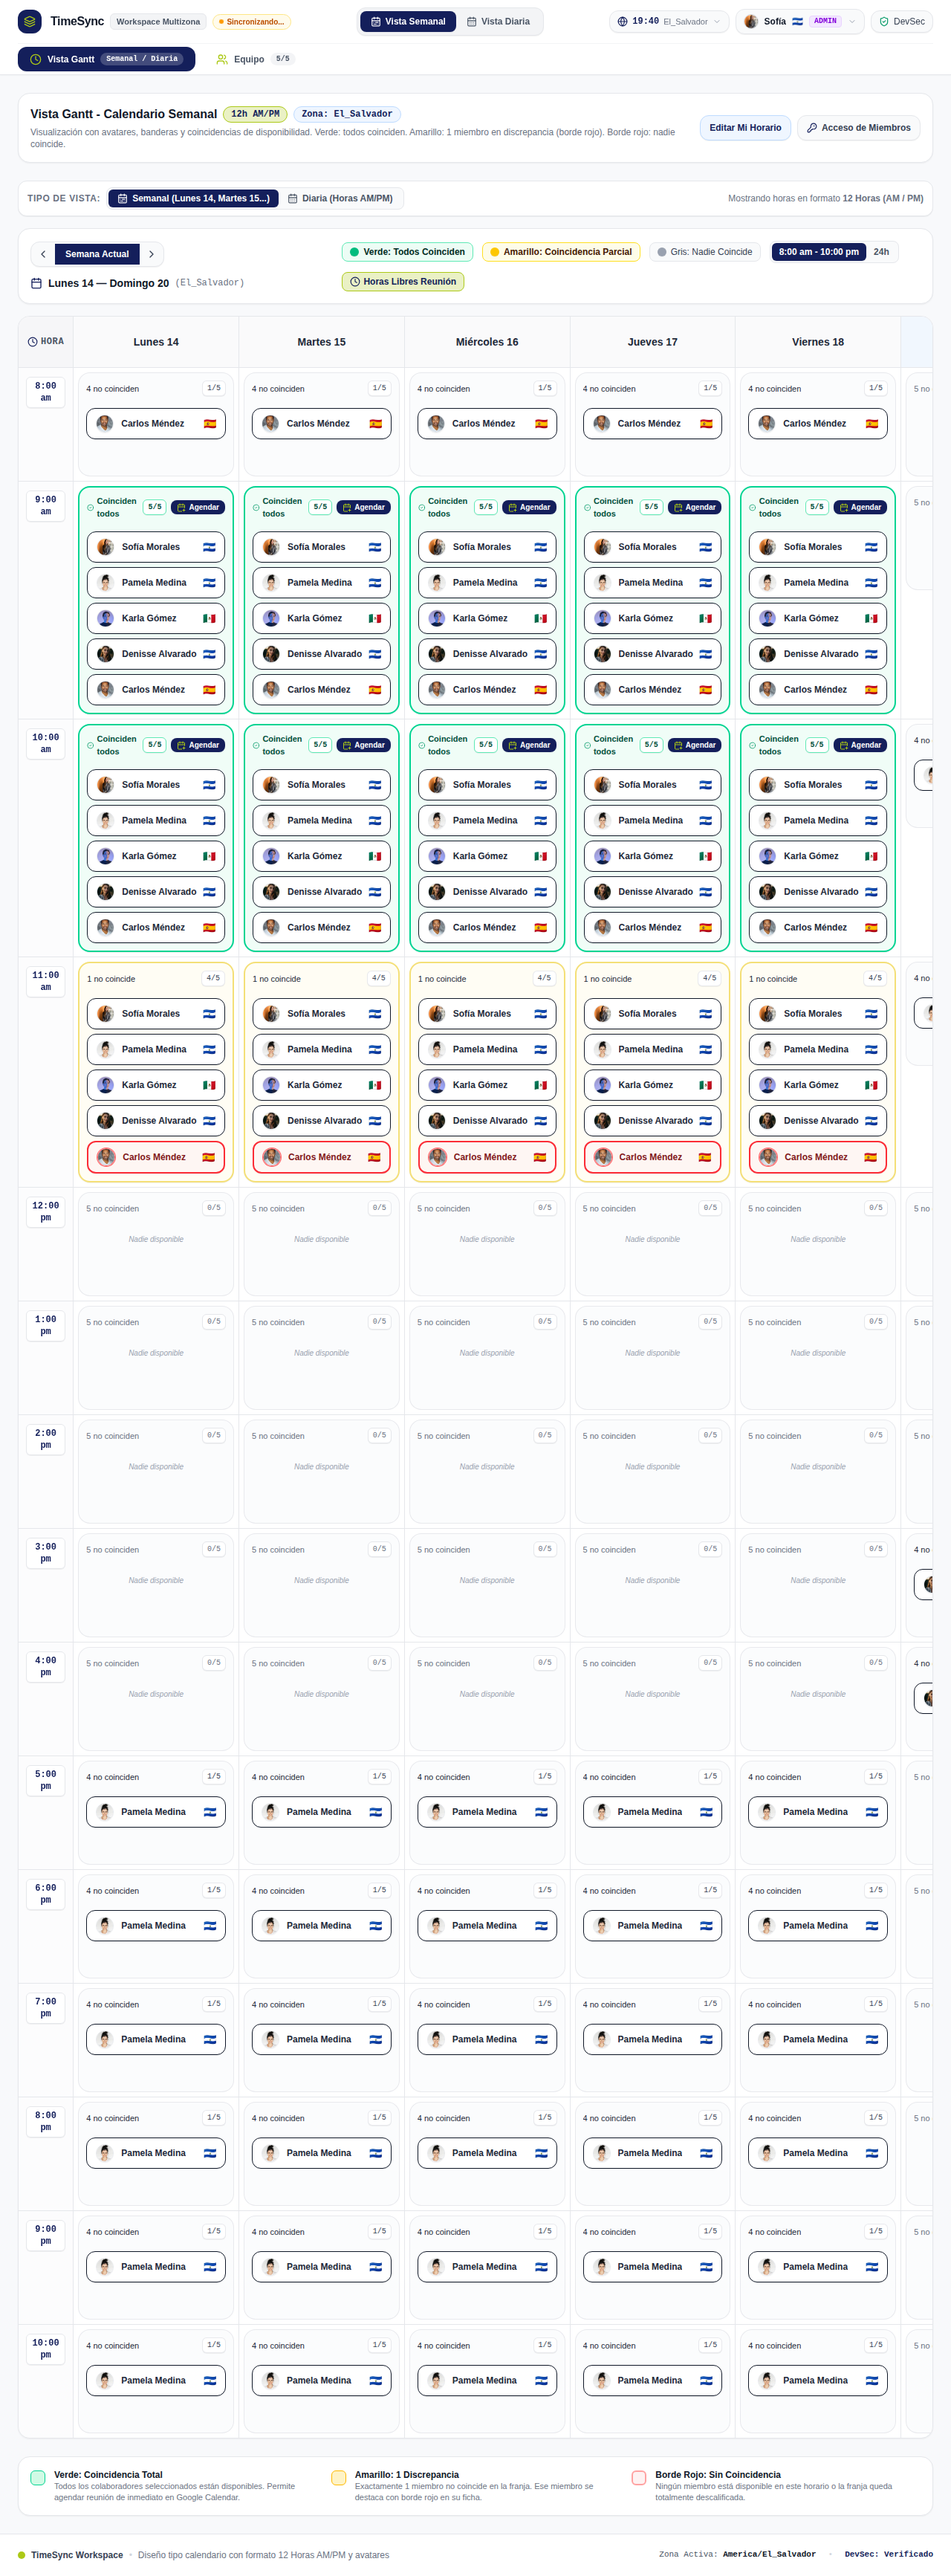
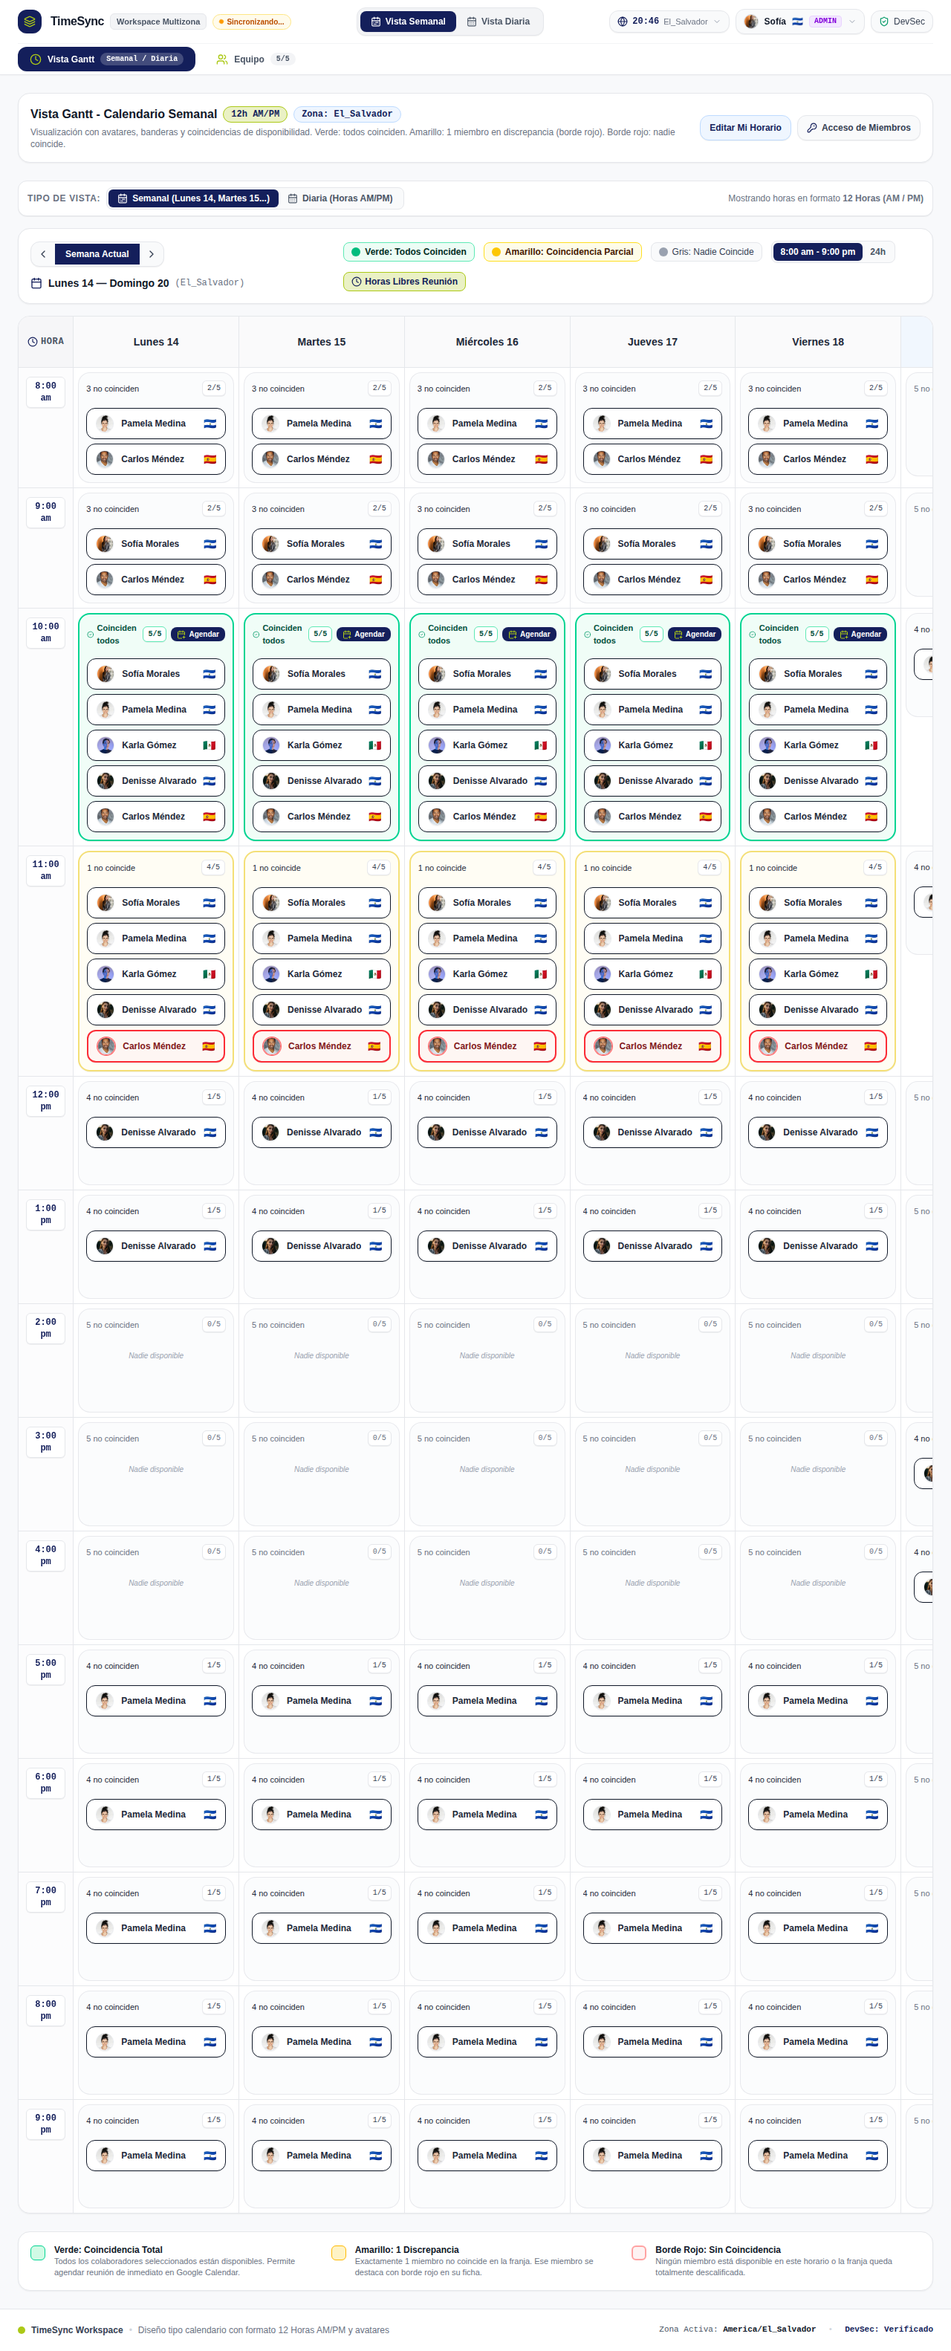
Fix Vista Gantt hours extension to 11pm and matching participants rendering

diff --git a/src/data/mockMembers.ts b/src/data/mockMembers.ts
@@ -39,6 +39,12 @@ export const INITIAL_MEMBERS: Member[] = [
     avatarUrl: 'https://images.unsplash.com/photo-1573496359142-b8d87734a5a2?w=150&auto=format&fit=crop&q=80',
     busySlots: [
       {
+        start: `${getFormattedDay(0)}T15:00:00Z`, // 09:00 AM SV
+        end: `${getFormattedDay(0)}T16:00:00Z`,   // 10:00 AM SV
+        title: 'Daily Standup & Sync',
+        source: 'google_calendar'
+      },
+      {
         start: `${getFormattedDay(1)}T17:00:00Z`,
         end: `${getFormattedDay(1)}T18:00:00Z`,
         title: 'Architecture Review',
@@ -69,8 +75,9 @@ export const INITIAL_MEMBERS: Member[] = [
     meetingStart: '08:00',
     meetingEnd: '22:00',
     meetingSlots: [
-      { start: '09:00', end: '12:00' },
-      { start: '17:00', end: '23:00' }
+      { start: '08:00', end: '09:00' },
+      { start: '10:00', end: '12:00' },
+      { start: '17:00', end: '22:00' }
     ],
     saturdaySlots: [
       { start: '10:00', end: '12:00' }
@@ -111,7 +118,7 @@ export const INITIAL_MEMBERS: Member[] = [
     meetingStart: '10:00',
     meetingEnd: '12:00',
     meetingSlots: [
-      { start: '09:00', end: '12:00' }
+      { start: '10:00', end: '12:00' }
     ],
     saturdaySlots: [],
     sundaySlots: [],
@@ -150,7 +157,7 @@ export const INITIAL_MEMBERS: Member[] = [
     meetingStart: '10:00',
     meetingEnd: '14:00',
     meetingSlots: [
-      { start: '09:00', end: '12:00' }
+      { start: '10:00', end: '14:00' }
     ],
     saturdaySlots: [
       { start: '15:00', end: '17:00' }
